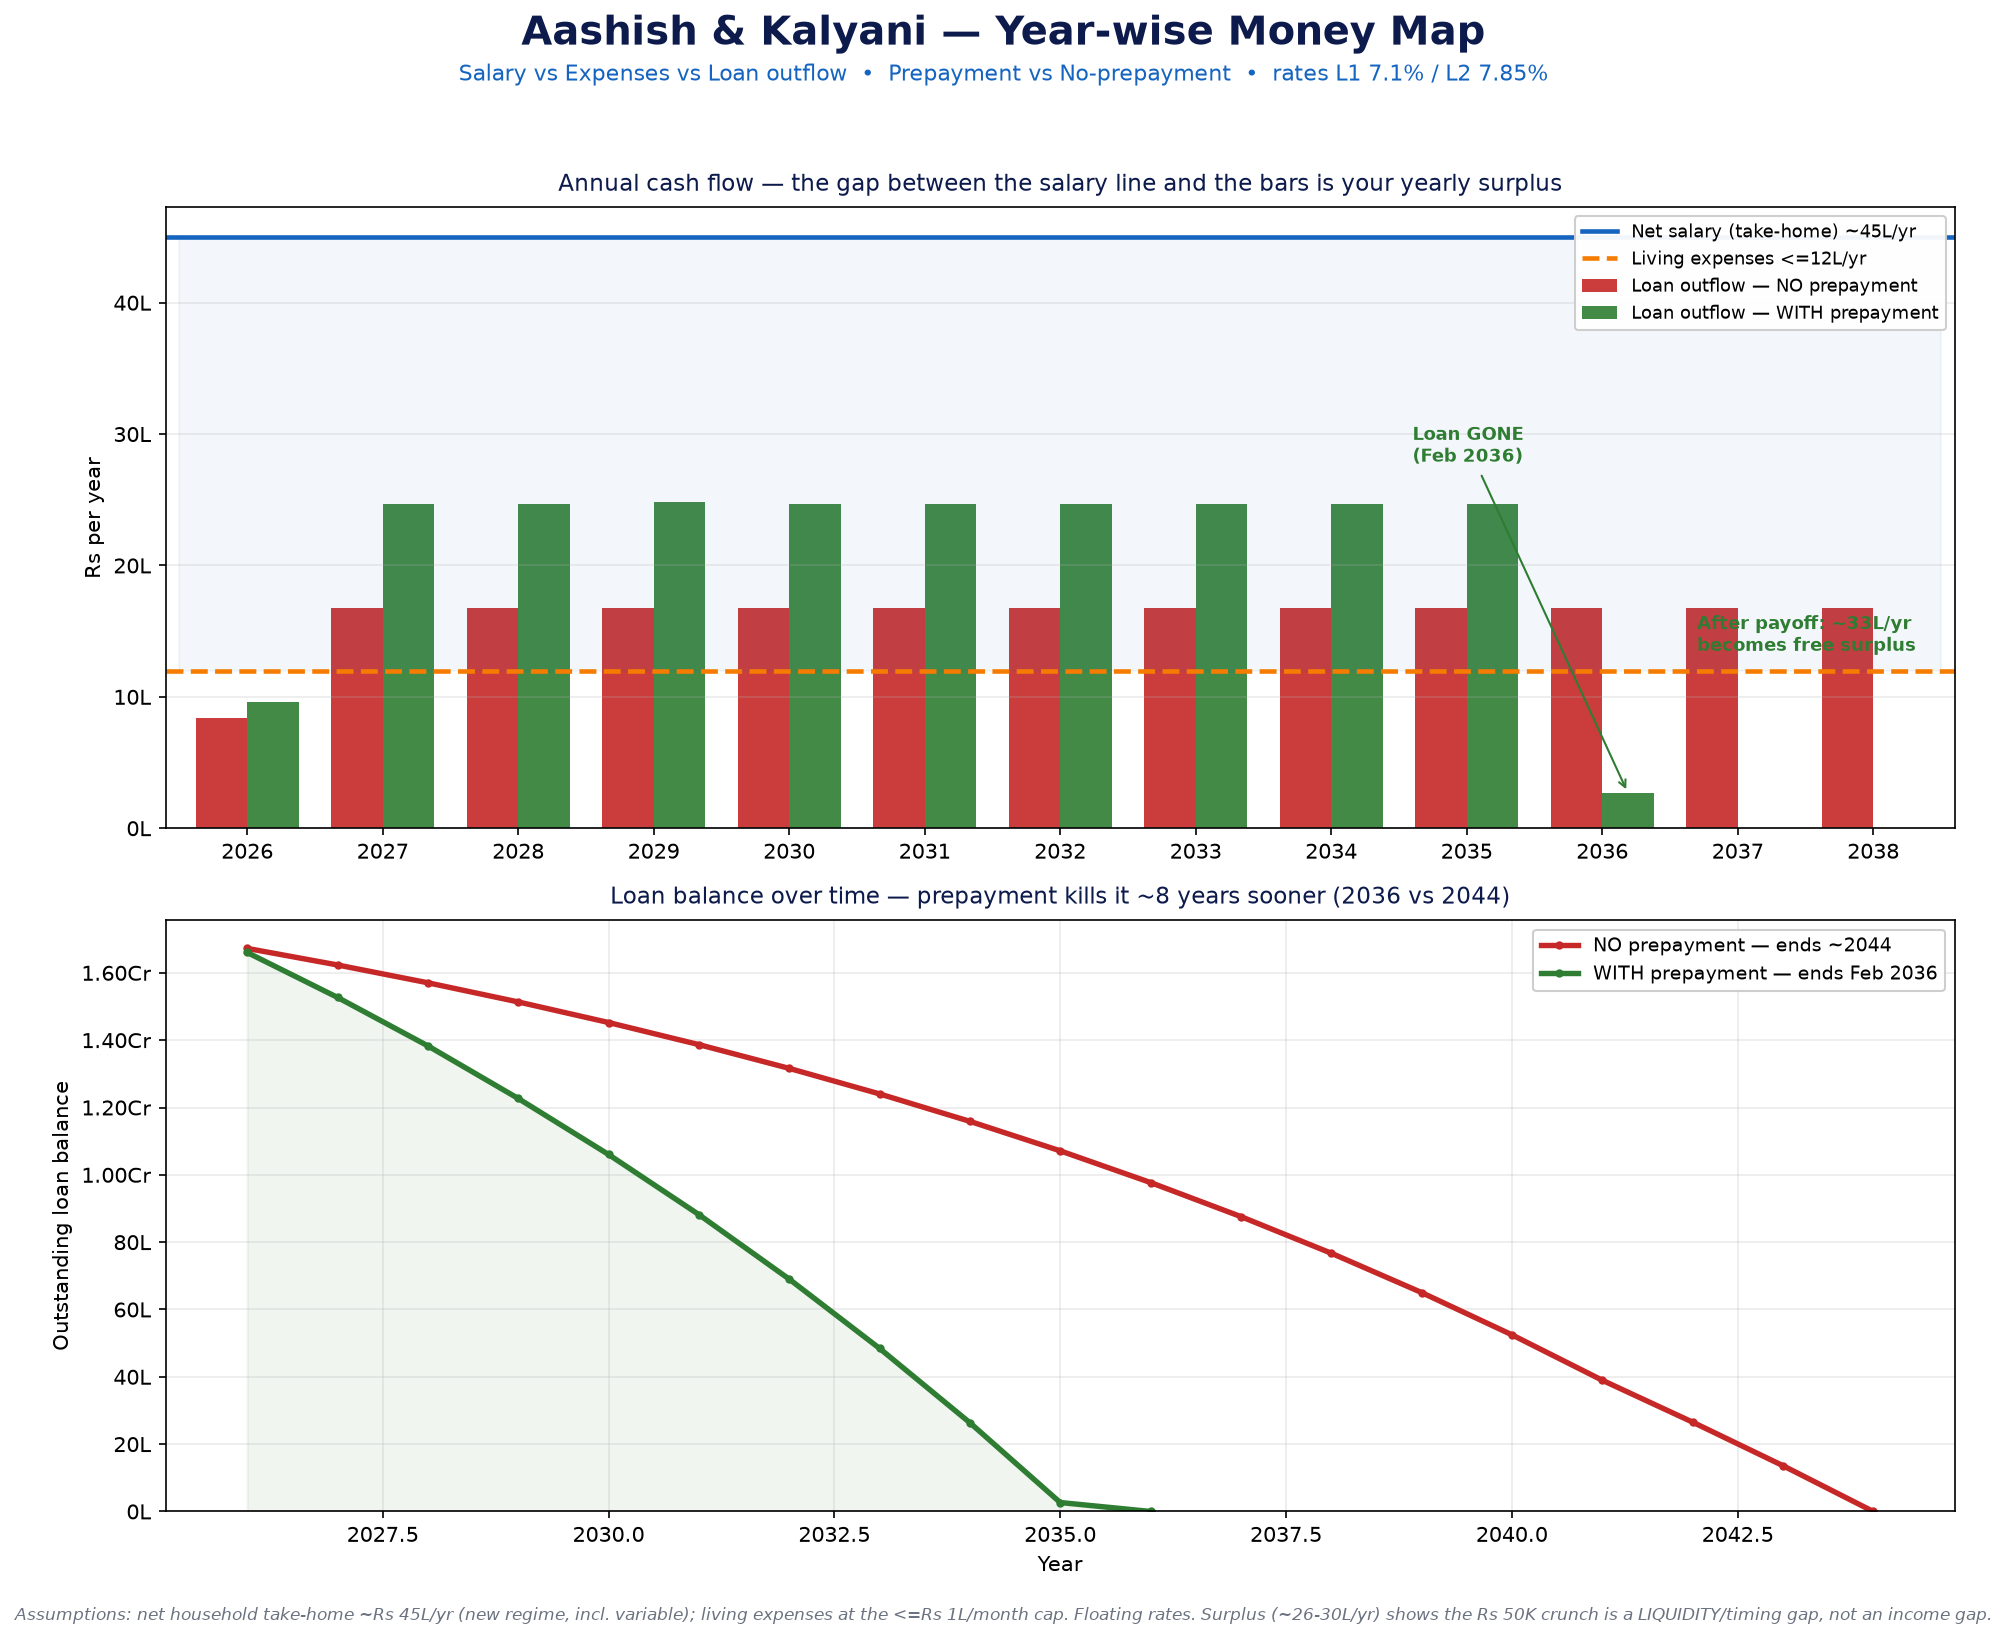
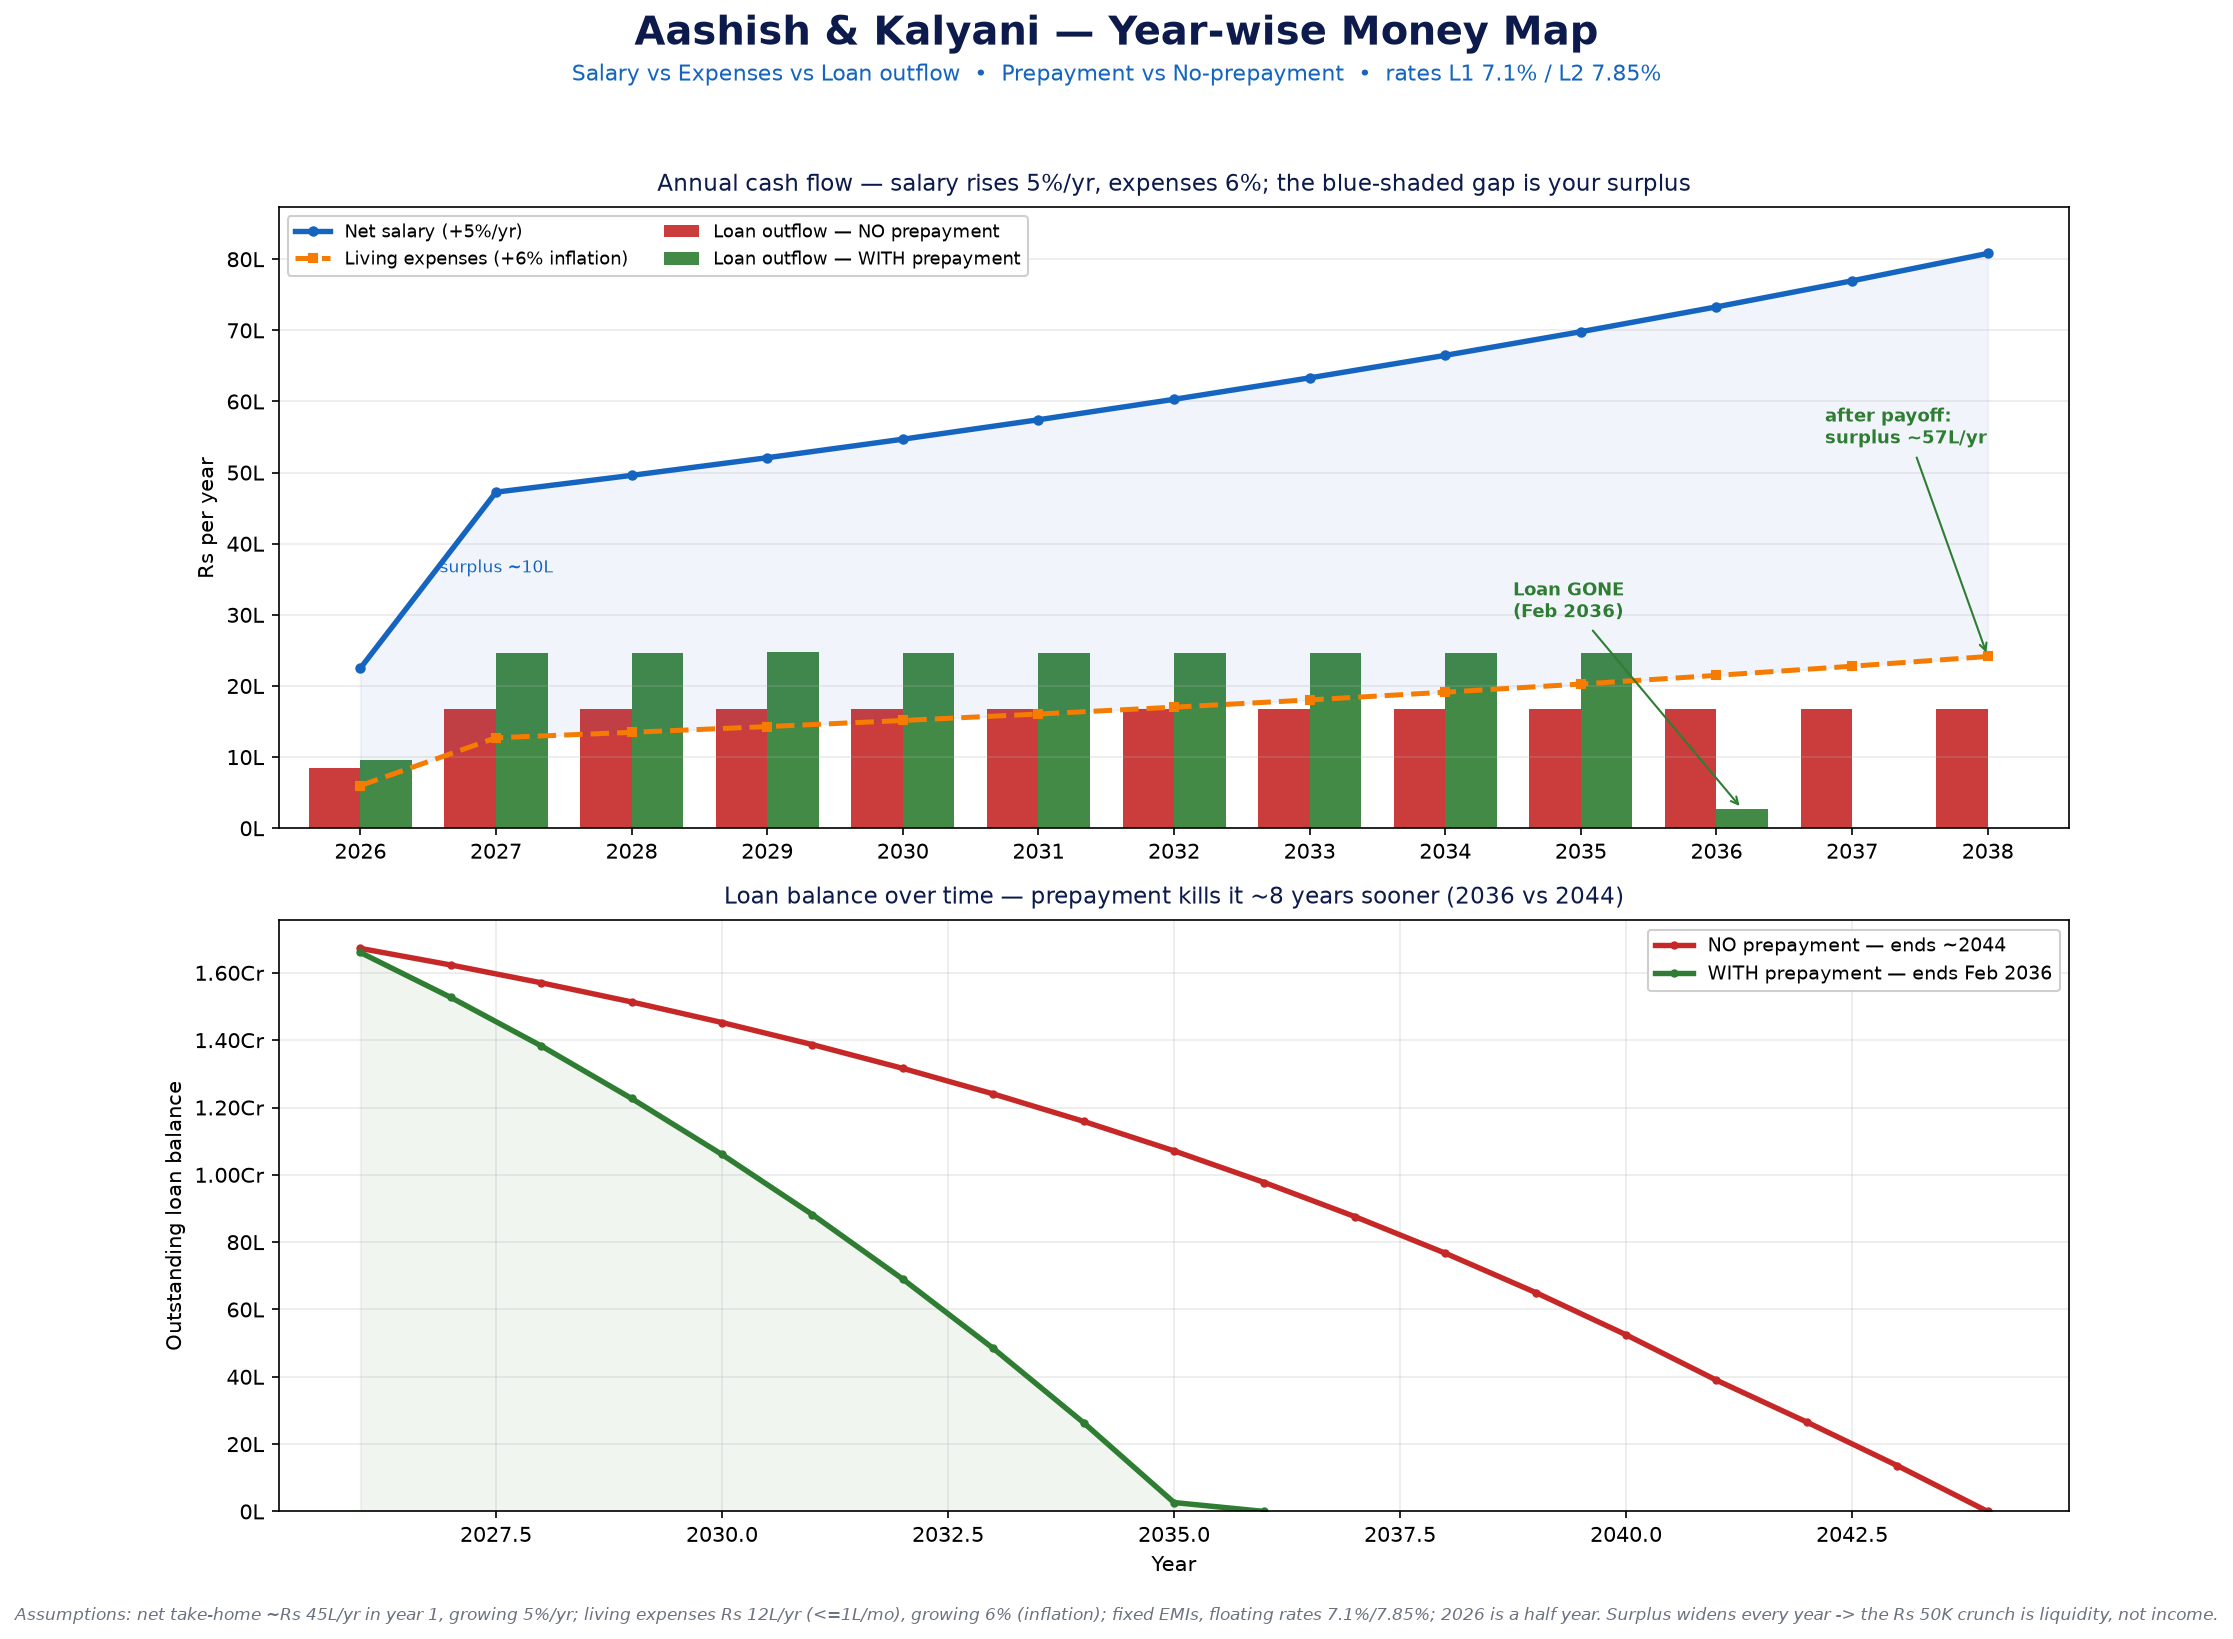
Add income +5%/yr growth and 6% expense inflation to Money Map graph
Salary line rises 5%/yr (45L to ~80L by 2038), expenses grow 6%; surplus
widens from ~10L to ~57L/yr post-payoff. Confirms income outpaces inflation.

Claude-Session: https://claude.ai/code/session_01J228DixTKb3jtWj6nPitMo

diff --git a/aios/ledger/finance_graph.py b/aios/ledger/finance_graph.py
@@ -14,8 +14,10 @@ L1_EMI, L2_BASE = 1_20_000, 20_000
 EXTRA = 20_000              # extra/month into L2 (prepay scenario)
 BONUS, BONUS_M = 5_50_000, 3
 START = datetime(2026, 7, 1)
-NET_SALARY_YR = 45_00_000   # household net take-home (assumption, new regime, incl variable)
-EXPENSES_YR   = 12_00_000   # <= Rs 1L/month (user input, upper bound)
+NET_SALARY_YR = 45_00_000   # household net take-home, year 1 (new regime, incl variable)
+EXPENSES_YR   = 12_00_000   # <= Rs 1L/month (user input, upper bound), year 1
+INCOME_GROWTH = 0.05        # +5% / year average
+INFLATION     = 0.06        # expenses grow with ~6% inflation
 
 def add_m(dt, n):
     m = dt.month-1+n; y = dt.year+m//12; m = m%12+1
@@ -57,31 +59,40 @@ fig.text(0.5, 0.945, "Salary vs Expenses vs Loan outflow  •  Prepayment vs No-
 
 def lakh(x, _): return f"{x/1e5:.0f}L" if x<1e7 else f"{x/1e7:.2f}Cr"
 
-# Panel 1: year-wise grouped bars 2026-2038
+# Panel 1: year-wise grouped bars 2026-2038, with growing salary & expense lines
 yrs = list(range(2026, 2039))
 import numpy as np
 x = np.arange(len(yrs)); w = 0.38
+def frac(y): return 0.5 if y == 2026 else 1.0   # 2026 is a half year (Jul start)
+sal = [NET_SALARY_YR*(1+INCOME_GROWTH)**(y-2026)*frac(y) for y in yrs]
+exp = [EXPENSES_YR*(1+INFLATION)**(y-2026)*frac(y) for y in yrs]
 emi_pre = [out_pre.get(y,0) for y in yrs]
 emi_no  = [out_no.get(y,0) for y in yrs]
+ymax = max(sal)*1.08
 ax1.bar(x-w/2, emi_no,  w, label='Loan outflow — NO prepayment', color='#c62828', alpha=0.9)
 ax1.bar(x+w/2, emi_pre, w, label='Loan outflow — WITH prepayment', color='#2e7d32', alpha=0.9)
-ax1.axhline(NET_SALARY_YR, color='#1565c0', lw=2.2, ls='-', label='Net salary (take-home) ~45L/yr')
-ax1.axhline(EXPENSES_YR, color='#f57c00', lw=2.2, ls='--', label='Living expenses <=12L/yr')
-ax1.fill_between([-0.5, len(yrs)-0.5], EXPENSES_YR, NET_SALARY_YR, color='#1565c0', alpha=0.05)
+ax1.fill_between(x, exp, sal, color='#1565c0', alpha=0.06)
+ax1.plot(x, sal, color='#1565c0', lw=2.6, marker='o', ms=4, label='Net salary (+5%/yr)')
+ax1.plot(x, exp, color='#f57c00', lw=2.4, ls='--', marker='s', ms=3.5, label='Living expenses (+6% inflation)')
 ax1.set_xticks(x); ax1.set_xticklabels(yrs)
-ax1.set_xlim(-0.6, len(yrs)-0.4)
+ax1.set_xlim(-0.6, len(yrs)-0.4); ax1.set_ylim(0, ymax)
 ax1.yaxis.set_major_formatter(FuncFormatter(lakh))
 ax1.set_ylabel("Rs per year")
-ax1.set_title("Annual cash flow — the gap between the salary line and the bars is your yearly surplus",
+ax1.set_title("Annual cash flow — salary rises 5%/yr, expenses 6%; the blue-shaded gap is your surplus",
               fontsize=11, color='#0d1b4c', pad=8)
-ax1.legend(loc='upper right', fontsize=8.5, framealpha=0.95, ncol=1)
+ax1.legend(loc='upper left', fontsize=8.5, framealpha=0.95, ncol=2)
 ax1.grid(axis='y', alpha=0.25)
-# annotate prepay loan ends
+# annotate prepay loan ends + surplus growth
 ax1.annotate("Loan GONE\n(Feb 2036)", xy=(yrs.index(2036)+w/2, out_pre.get(2036,0)),
-             xytext=(yrs.index(2036)-1.4, NET_SALARY_YR*0.62), fontsize=8.5, color='#2e7d32', fontweight='bold',
+             xytext=(yrs.index(2036)-1.5, ymax*0.34), fontsize=8.5, color='#2e7d32', fontweight='bold',
              arrowprops=dict(arrowstyle='->', color='#2e7d32'))
-ax1.annotate("After payoff: ~33L/yr\nbecomes free surplus", xy=(yrs.index(2037)+0.4, 1_00_000),
-             xytext=(yrs.index(2036)+0.7, NET_SALARY_YR*0.30), fontsize=8.5, color='#2e7d32', fontweight='bold')
+s27 = sal[yrs.index(2027)]-exp[yrs.index(2027)]-emi_pre[yrs.index(2027)]
+s38 = sal[yrs.index(2038)]-exp[yrs.index(2038)]
+ax1.annotate(f"surplus ~{s27/1e5:.0f}L", xy=(yrs.index(2027), (sal[yrs.index(2027)]+emi_pre[yrs.index(2027)])/2),
+             fontsize=8, color='#1565c0', ha='center')
+ax1.annotate(f"after payoff:\nsurplus ~{s38/1e5:.0f}L/yr", xy=(yrs.index(2038), exp[yrs.index(2038)]),
+             xytext=(yrs.index(2037)-0.2, ymax*0.62), fontsize=8.5, color='#2e7d32', fontweight='bold',
+             arrowprops=dict(arrowstyle='->', color='#2e7d32'))
 
 # Panel 2: loan balance lines full horizon
 def series(bal):
@@ -99,8 +110,8 @@ ax2.grid(alpha=0.25)
 ax2.set_ylim(bottom=0)
 
 fig.text(0.5, 0.012,
-   "Assumptions: net household take-home ~Rs 45L/yr (new regime, incl. variable); living expenses at the <=Rs 1L/month cap. "
-   "Floating rates. Surplus (~26-30L/yr) shows the Rs 50K crunch is a LIQUIDITY/timing gap, not an income gap.",
+   "Assumptions: net take-home ~Rs 45L/yr in year 1, growing 5%/yr; living expenses Rs 12L/yr (<=1L/mo), growing 6% (inflation); "
+   "fixed EMIs, floating rates 7.1%/7.85%; 2026 is a half year. Surplus widens every year -> the Rs 50K crunch is liquidity, not income.",
    ha='center', fontsize=8, color='#6b7280', style='italic')
 
 plt.tight_layout(rect=[0, 0.025, 1, 0.94])
